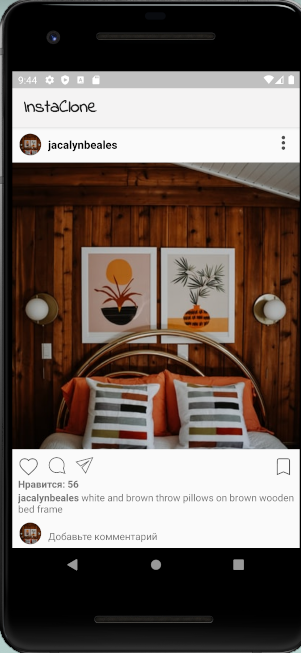
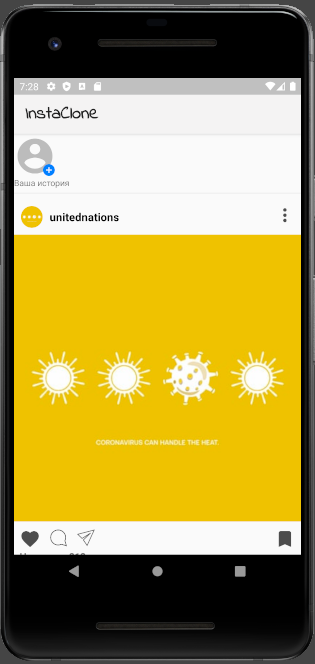
ceratedAt textview implemented, added two screenshots

diff --git a/app/src/main/java/com/example/android/instaclone/instaclonehome/BindingUtils.kt b/app/src/main/java/com/example/android/instaclone/instaclonehome/BindingUtils.kt
@@ -11,9 +11,10 @@ import com.bumptech.glide.request.RequestOptions
 import com.example.android.instaclone.R
 import com.example.android.instaclone.network.Post
 import descriptionFormatted
-
-
-
+import java.sql.Time
+import java.text.SimpleDateFormat
+import java.time.LocalDateTime
+import java.time.format.DateTimeFormatter
 
 @BindingAdapter("imageUrl")
 fun bindImage(imgView: ImageView, imgUrl: String?){
@@ -49,5 +50,68 @@ fun bindRecyclerView(recyclerView: RecyclerView, data: List<Post>?) {
 }
 
 
+@BindingAdapter("timePosted")
+fun bindTimePosted(textView: TextView, createdAt: String){
+    val parser = SimpleDateFormat("yyyy-MM-dd'T'HH:mm:ss")
+    val time = parser.parse(createdAt).time
+    val formatter = SimpleDateFormat()
+    val timeNow = System.currentTimeMillis()
+    val diff = timeNow - time
+    val seconds = diff/ 1000
+    val minutes = seconds / 60
+    val hours = minutes / 60
+    val days = hours/ 24
+    var timeUntilNow : String
+    if(days>0){
+        timeUntilNow = timeToString(days, "day")
+    }else if (hours>0){
+        timeUntilNow = timeToString(hours, "hour")
+    } else if (minutes>0){
+        timeUntilNow = timeToString(minutes, "minute")
+    } else{
+        timeUntilNow = timeToString(seconds, "second")
+    }
+
+    textView.text = timeUntilNow
+}
+
+enum class TimeStringFormats(val day: String, val hour: String, val minute: String, val second: String){
+    ONEUNITE("день", "час", "минута", "секунда"),
+    TWOTHREEFOURUNITES("дня", "часа", "минуты", "секунды"),
+    MULTIPLEUNITES("дней", "часов", "минут", "секунд")
+}
+
+fun timeToString(timeUnit: Long, unitType: String): String {
+    return when (unitType) {
+        "day" -> return when (timeUnit % 100) {
+            in 11L..14L -> "$timeUnit ${TimeStringFormats.MULTIPLEUNITES.day} назад"
+            else -> return  when (timeUnit % 10) {
+            1L -> { "$timeUnit ${TimeStringFormats.ONEUNITE.day} назад"}
+            in 2L .. 4L -> "$timeUnit ${TimeStringFormats.TWOTHREEFOURUNITES.day} назад"
+            else -> "$timeUnit ${TimeStringFormats.MULTIPLEUNITES.day} назад"
+        }}
+        "hour" -> return when (timeUnit % 100) {
+            in 11L..14L -> "$timeUnit ${TimeStringFormats.MULTIPLEUNITES.hour} назад"
+            else -> return  when (timeUnit % 10) {
+                1L -> { "$timeUnit ${TimeStringFormats.ONEUNITE.hour} назад"}
+                in 2L .. 4L -> "$timeUnit ${TimeStringFormats.TWOTHREEFOURUNITES.hour} назад"
+                else -> "$timeUnit ${TimeStringFormats.MULTIPLEUNITES.hour} назад"
+            }}
+        "minute" -> return when (timeUnit % 100) {
+            in 11L..14L -> "$timeUnit ${TimeStringFormats.MULTIPLEUNITES.minute} назад"
+            else -> return  when (timeUnit % 10) {
+                1L -> { "$timeUnit ${TimeStringFormats.ONEUNITE.minute} назад"}
+                in 2L .. 4L -> "$timeUnit ${TimeStringFormats.TWOTHREEFOURUNITES.minute} назад"
+                else -> "$timeUnit ${TimeStringFormats.MULTIPLEUNITES.minute} назад"
+            }}
+        else -> return when (timeUnit % 100) {
+            in 11L..14L -> "$timeUnit ${TimeStringFormats.MULTIPLEUNITES.second} назад"
+            else -> return  when (timeUnit % 10) {
+                1L -> { "$timeUnit ${TimeStringFormats.ONEUNITE.second} назад"}
+                in 2L .. 4L -> "$timeUnit ${TimeStringFormats.TWOTHREEFOURUNITES.second} назад"
+                else -> "$timeUnit ${TimeStringFormats.MULTIPLEUNITES.second} назад"
+            }}
+    }
+}
 
 

diff --git a/app/src/main/java/com/example/android/instaclone/network/Post.kt b/app/src/main/java/com/example/android/instaclone/network/Post.kt
@@ -10,6 +10,7 @@ data class Post(
         var likes: Long,
         @Json(name = "urls") val url: Url,
         val user: User,
+        val created_at: String,
         var liked_by_user: Boolean
 ){
 

diff --git a/README.md b/README.md
@@ -1,14 +1,16 @@
 # Instaclone 
 
-This is the toy app for a test assignment 
+This is a toy app for a test assignment 
 
 ## A clone of Instagram Android app
 
-This app displays a list of posts with images in a RecyclerView. Post come from Unsplash Api with help of Retrofit library and Moshi library.
+This app displays a list of posts with images in a RecyclerView. Posts come from Unsplash Api with help of Retrofit library and Moshi library.
 Images are displayed using Glide.
+App is build upon a toy app from Udacity lesson on Android.
 
 ## Screenshots
 
 ![Screenshot1](screenshots/instaclone_home.png)
+![Screenshot2](screenshots/instaclone_home2.png)
 
 
